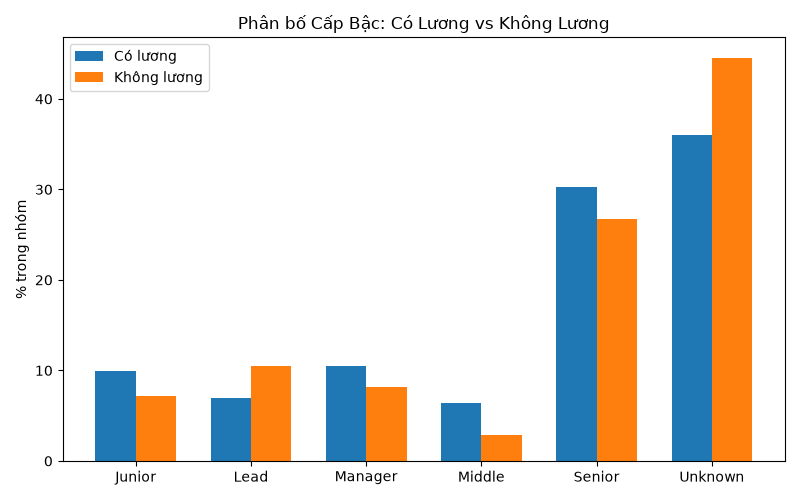
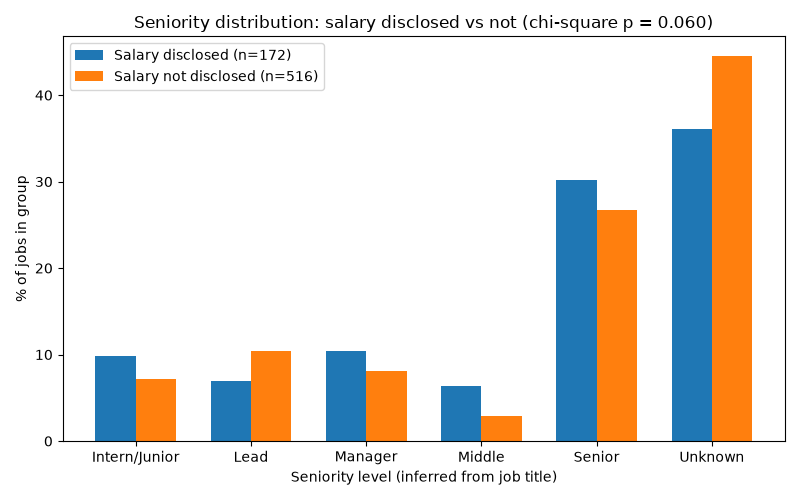
fix(models): refine clustering, classification, bias analysis and update reports

diff --git a/src/models/classification.py b/src/models/classification.py
@@ -123,6 +123,40 @@ def _md_table(df: pd.DataFrame, index_name: str) -> list[str]:
     return lines
 
 
+def plot_tree_ordered(model: DecisionTreeClassifier, X: pd.DataFrame, y: pd.Series, path: Path, title: str):
+    """Vẽ cây với `value` theo thứ tự Low, Mid, High (sklearn mặc định sắp lớp theo chữ cái: High, Low, Mid).
+
+    Fit lại một cây cùng tham số trên nhãn đánh số "1_Low" < "2_Mid" < "3_High". Gini và cách chọn nhánh
+    không phụ thuộc tên lớp nên cấu trúc cây giống hệt — có assert để chắc chắn.
+    """
+    order = {c: f"{i}_{c}" for i, c in enumerate(CLASSES, start=1)}
+    twin = DecisionTreeClassifier(**model.get_params()).fit(X, y.map(order))
+    assert (twin.tree_.feature == model.tree_.feature).all() and np.allclose(twin.tree_.threshold, model.tree_.threshold)
+
+    fig = plt.figure(figsize=(15, 10))
+    plot_tree(twin, feature_names=list(X.columns), class_names=CLASSES, filled=True, rounded=True, fontsize=10)
+    plt.title(title)
+    fig.text(0.5, 0.01,
+             "value = number of jobs [Low, Mid, High]. Left branch = condition true "
+             "(feature <= 0.5, i.e. the job does NOT have it); right branch = job has it.",
+             ha="center", fontsize=11)
+    plt.tight_layout(rect=(0, 0.04, 1, 1))
+    plt.savefig(path)
+    plt.close(fig)
+
+
+def intern_junior_breakdown(jobs_df: pd.DataFrame) -> pd.DataFrame:
+    """Thành phần nhóm Intern/Junior trong các tin có lương: số tin và lương đại diện theo level gốc."""
+    jobs = jobs_df[jobs_df["salary_status"] != "undisclosed"].copy()
+    jobs["salary_mid"] = calculate_salary_mid(jobs)
+    members = [lvl for lvl, grp in LEVEL_GROUPS.items() if grp == "Intern/Junior"]
+    sub = jobs[jobs["level"].isin(members)]
+    out = sub.groupby("level")["salary_mid"].agg(["count", "median", "min", "max"]).reindex(members).dropna(how="all")
+    out.columns = ["Số tin", "Trung vị (triệu)", "Thấp nhất", "Cao nhất"]
+    out["Số tin"] = out["Số tin"].astype(int)
+    return out.round(1)
+
+
 def run_classification():
     jobs_df, skills_df = load_and_verify_data()
     X, y, bins = build_dataset(jobs_df, skills_df)
@@ -164,13 +198,7 @@ def run_classification():
     importance = pd.Series(model.feature_importances_, index=X.columns)
     importance = importance[importance > 0].sort_values(ascending=False)
 
-    plt.figure(figsize=(15, 10))
-    plot_tree(model, feature_names=list(X.columns), class_names=list(model.classes_),
-              filled=True, rounded=True, fontsize=10)
-    plt.title(f"Decision Tree (max_depth={params[0]}, min_samples_leaf={params[1]})")
-    plt.tight_layout()
-    plt.savefig(FIG_DIR / "tree_viz.png")
-    plt.close()
+    plot_tree_ordered(model, X, y, FIG_DIR / "tree_viz.png", title=f"Decision Tree (max_depth={params[0]}, min_samples_leaf={params[1]})")
 
     # Lưu model + metadata (pickle chỉ dùng được với đúng version sklearn)
     MODEL_DIR.mkdir(parents=True, exist_ok=True)
@@ -190,6 +218,9 @@ def run_classification():
     lo, hi = bins[1], bins[2]
     cm_df = pd.DataFrame(cm, index=[f"Thật: {c}" for c in CLASSES], columns=[f"Dự đoán: {c}" for c in CLASSES])
     imp_df = importance.round(3).to_frame("Importance")
+    breakdown = intern_junior_breakdown(jobs_df)
+    n_ij = int(breakdown["Số tin"].sum())
+    n_intern = int(breakdown["Số tin"].get("Intern", 0))
     fold_counts = Counter(zip(folds["max_depth"], folds["min_samples_leaf"]))
     lines = [
         "# Báo cáo phân lớp lương (Decision Tree)",
@@ -230,10 +261,25 @@ def run_classification():
         "",
         *_md_table(imp_df, "Feature"),
         "",
+        "### Nhóm cấp bậc `Intern/Junior`",
+        "",
+        "Intern, Fresher và Junior được gộp thành 1 nhóm (`LEVEL_GROUPS`) vì Junior thật rất ít. "
+        "Trong các tin có lương, thành phần nhóm này:",
+        "",
+        *_md_table(breakdown, "Level gốc"),
+        "",
+        f"→ **{n_intern}/{n_ij} tin là thực tập sinh**; con số \"lương\" của họ là **phụ cấp thực tập**, không phải lương. "
+        "Vì vậy nhánh `lvl_Intern/Junior` của cây (toàn bộ dự đoán Low) phản ánh \"thực tập sinh có thu nhập thấp\" — "
+        "**không** được diễn giải thành \"Junior lương thấp\".",
+        "",
         "## Nhận xét",
         "",
         f"- Accuracy out-of-fold {acc:.1%}, cận dưới CI {ci_low:.1%} vẫn cao hơn baseline {baseline:.1%} → mô hình học được tín hiệu thật.",
-        "- Cấp bậc (suy từ tiêu đề) là feature quan trọng nhất; việc **không suy được** cấp bậc (`lvl_Unknown`) cũng mang thông tin.",
+        "- Cấp bậc (suy từ tiêu đề) là feature quan trọng nhất. Tách quan trọng nhất là `lvl_Intern/Junior`, "
+        "nhưng nhóm này chủ yếu là thực tập sinh (phụ cấp) nên kết luận gần như hiển nhiên; tín hiệu có giá trị hơn là "
+        "Senior/Lead/Manager nghiêng về High và việc **không suy được** cấp bậc (`lvl_Unknown`) nghiêng về Low.",
+        "- **Hạn chế:** phụ cấp thực tập nằm chung với lương trong dữ liệu (không tách được ở bước làm sạch); "
+        "phương án loại tin thực tập khỏi mô hình lương sẽ đổi N = 172 và tertile đã chốt ở Mốc 2 nên không áp dụng.",
         "- Recall từng lớp: " + ", ".join(f"{c} {cm[i, i]}/{cm[i].sum()} ({cm[i, i] / cm[i].sum():.0%})" for i, c in enumerate(CLASSES))
         + " — lớp giữa khó tách nhất, thường bị nhầm sang hai lớp bên cạnh.",
         f"- Mẫu nhỏ ({len(X)} tin) nên CI rộng; kết luận chỉ áp dụng cho tin có công bố lương (25% tổng số tin, phần lớn ghi USD).",

diff --git a/src/models/clustering.py b/src/models/clustering.py
@@ -195,6 +195,30 @@ def evaluate_clusters(cluster_df, jobs_df, stats):
         f.write(f"- **Purity:** {purity:.4f}\n")
         f.write(f"- **Baseline Purity:** {baseline_purity:.4f}\n")
         f.write(f"- **Weighted F-measure:** {overall_f:.4f}\n\n")
+
+        # Nhận xét & hạn chế — sinh từ số liệu để slide dùng trực tiếp
+        n_total = jobs_df['job_id'].nunique()
+        n_used = len(cluster_df)
+        sizes = cluster_df['cluster'].value_counts()
+        big_id, big_n = sizes.idxmax(), int(sizes.max())
+        small = [c for c in sorted(stats['top5']) if c != big_id]
+        f.write("## Nhận xét & hạn chế\n\n")
+        f.write(f"- **Cấu trúc cụm yếu:** silhouette = {stats['best_score']:.3f} (gần 0) — tổ hợp kỹ năng trên ITviec "
+                "**không tách thành các nhóm nghề rõ ràng**. Đây là kết quả, không phải lỗi; mọi phương án linkage/k đã thử "
+                "đều cho silhouette ~0,04–0,07 (`docs/DECISIONS.md`).\n")
+        f.write(f"- **Một cụm \"chung\" chiếm {big_n}/{n_used} tin ({big_n / n_used:.0%})** (cụm {big_id}: "
+                f"{stats['top5'][big_id]}) và trộn lẫn mọi nhóm nghề (xem crosstab).\n")
+        f.write(f"- **Các cụm nhỏ có đặc trưng rõ hơn:** "
+                + "; ".join(f"cụm {c} ({int(sizes[c])} tin): {stats['top5'][c].split(', ')[0]}, {stats['top5'][c].split(', ')[1]}" for c in small)
+                + ".\n")
+        f.write(f"- **Purity {purity:.3f} so với baseline {baseline_purity:.3f}** (baseline = gom tất cả vào 1 cụm, "
+                f"tức tỷ lệ nhóm nghề đông nhất): cụm kỹ năng khớp nhóm nghề tốt hơn baseline nhưng còn xa mức tách bạch; "
+                f"F-measure {overall_f:.3f}.\n")
+        f.write(f"- **Phạm vi:** chỉ {n_used}/{n_total} tin ({n_used / n_total:.0%}) được phân cụm; "
+                f"{n_total - n_used} tin ({(n_total - n_used) / n_total:.0%}) bị loại vì không bắt được kỹ năng nào "
+                f"hoặc còn < {MIN_SKILLS_PER_JOB} kỹ năng sau khi bỏ kỹ năng mềm/hiếm/quá phổ biến.\n")
+        f.write("- Nhóm nghề so sánh lấy từ 72 giá trị \"Job Expertise\" gộp thành 10 nhóm (`src/models/expertise_groups.json`, "
+                "ASSUMPTIONS A16 — chờ review).\n\n")
         
         f.write("## Crosstab (Cluster x Expertise Group)\n\n")
         headers = ["Cluster"] + list(crosstab.columns)

diff --git a/src/models/bias_analysis.py b/src/models/bias_analysis.py
@@ -128,8 +128,8 @@ def run_bias_analysis():
     fig, ax = plt.subplots(figsize=(10, 6))
     colors = ['green' if x > 0 else 'red' for x in top_plot['Chênh lệch (%)']]
     ax.barh(top_plot.index, top_plot['Chênh lệch (%)'] * 100, color=colors)
-    ax.set_xlabel('Chênh lệch % (Có lương - Không lương)')
-    ax.set_title(f'Top 10 kỹ năng chênh lệch nhiều nhất ({sig_count} kỹ năng có adj p < 0.05)')
+    ax.set_xlabel('Difference in share of jobs (pp): with salary − without salary')
+    ax.set_title(f'Top 10 skills by difference: salary disclosed vs not ({sig_count} with BH-adjusted p < 0.05)')
     ax.grid(axis='x', linestyle='--', alpha=0.7)
     plt.tight_layout()
     
@@ -191,10 +191,11 @@ def run_bias_analysis():
     fig, ax = plt.subplots(figsize=(8, 5))
     x = np.arange(len(level_pct))
     width = 0.35
-    ax.bar(x - width/2, level_pct['Có lương'], width, label='Có lương')
-    ax.bar(x + width/2, level_pct['Không lương'], width, label='Không lương')
-    ax.set_ylabel('% trong nhóm')
-    ax.set_title('Phân bố Cấp Bậc: Có Lương vs Không Lương')
+    ax.bar(x - width/2, level_pct['Có lương'], width, label=f'Salary disclosed (n={n_has})')
+    ax.bar(x + width/2, level_pct['Không lương'], width, label=f'Salary not disclosed (n={n_no})')
+    ax.set_ylabel('% of jobs in group')
+    ax.set_xlabel('Seniority level (inferred from job title)')
+    ax.set_title(f'Seniority distribution: salary disclosed vs not (chi-square p = {p_level:.3f})')
     ax.set_xticks(x)
     ax.set_xticklabels(level_pct.index)
     ax.legend()

diff --git a/src/models/features.py b/src/models/features.py
@@ -20,9 +20,11 @@ LOCATION_COLUMNS = {
 
 # Nhãn do src/parse/parser.py::infer_level sinh ra → nhóm dùng cho model
 LEVEL_GROUPS = {
-    "Intern": "Junior",
-    "Fresher": "Junior",
-    "Junior": "Junior",
+    # Intern/Fresher gộp với Junior vì quá ít tin (Junior thật chỉ 15/688). Lưu ý: trong 172 tin có lương,
+    # nhóm này chủ yếu là thực tập sinh (phụ cấp, không phải lương) — xem classification_report.md
+    "Intern": "Intern/Junior",
+    "Fresher": "Intern/Junior",
+    "Junior": "Intern/Junior",
     "Middle": "Middle",
     "Senior": "Senior",
     "Lead": "Lead",
@@ -110,7 +112,7 @@ def extract_location_flags(df: pd.DataFrame) -> pd.DataFrame:
 
 
 def clean_level_feature(df: pd.DataFrame) -> pd.Series:
-    """Gộp level: Intern/Fresher/Junior → Junior; Lead/Principal → Lead;
+    """Gộp level: Intern/Fresher/Junior → Intern/Junior; Lead/Principal → Lead;
     Manager/Head/Director → Manager; thiếu → Unknown.
 
     Raises:

diff --git a/tests/test_models.py b/tests/test_models.py
@@ -125,7 +125,7 @@ def test_clean_level_feature():
         "Lead", "Principal", "Manager", "Head", "Director", None,
     ]})
     assert clean_level_feature(df).tolist() == [
-        "Junior", "Junior", "Junior", "Middle", "Senior",
+        "Intern/Junior", "Intern/Junior", "Intern/Junior", "Middle", "Senior",
         "Lead", "Lead", "Manager", "Manager", "Manager", "Unknown",
     ]
 

diff --git a/docs/DECISIONS.md b/docs/DECISIONS.md
@@ -33,3 +33,4 @@
 | 03/10 tối | **Thuật toán Phân cụm (Task 1 & 2): Weighted Linkage + Lọc dữ liệu nghiêm ngặt** | (1) Bỏ kỹ năng mềm/công cụ quản lý (communication, teamwork, english, japanese, agile, jira, confluence), kỹ năng xuất hiện > 40% số tin, và kỹ năng hiếm (< 10 tin — ngưỡng 15 bỏ mất pandas, pytorch, tensorflow nên Data/AI không thành cụm). (2) Bỏ các tin còn < 2 kỹ năng sau khi lọc (129 tin; còn 548). (3) Dùng `weighted` linkage: `average` bị chaining thành 1 cụm chứa 95% số tin; `complete` không cắt được vì 42% cặp tin có khoảng cách Jaccard = 1; Ward không hợp lệ với Jaccard. (4) Chọn k ∈ 4–8 theo silhouette cao nhất trong các k có cụm nhỏ nhất ≥ 15 tin (không có k hợp lệ thì báo lỗi, không tự chọn) → **k = 4** (400/76/43/29), silhouette 0,048, purity 0,334. Silhouette của mọi phương án chỉ ~0,04–0,06: tổ hợp kỹ năng trên ITviec không tách thành nhóm nghề rõ ràng — ghi vào phần hạn chế (`reports/purity_report.md`). | Người 4 (Zang) |
 | 03/10 tối | **Decision Tree phân lớp lương (Task 3)** | 172 tin có lương, nhãn tertile (Low < 32,2 ≤ Mid < 50,0 ≤ High triệu VND/tháng; 60/55/57). Feature (Q3): 70 kỹ năng (≥ 5 lần trong 172 tin) + cấp bậc one-hot có `Unknown` + địa điểm multi-hot; left join `skill_matrix` (điền 0) để giữ đủ 172 tin. Đánh giá bằng nested CV (ngoài 5 fold, trong 3 fold chọn `max_depth`, `min_samples_leaf`); accuracy và confusion matrix tính trên dự đoán out-of-fold. Mô hình cuối: bộ tham số vòng trong chọn nhiều nhất, hoà thì chọn cây nông hơn → max_depth=3, min_samples_leaf=5. Kết quả: accuracy 52,9% (95% CI 45,3–60,5%) so với baseline 34,9%; cấp bậc là feature quan trọng nhất (`reports/classification_report.md`). Lưu `models/tree_model.pkl` + `tree_model_meta.json` (version sklearn), không dùng symlink (Windows). | Người 4 (Zang) |
 | 03/10 tối | **Bias analysis (Task 4): tin có lương (172) vs không lương (516)** | Kỹ năng: Fisher exact cho 100 kỹ năng (≥ 5 tin) + hiệu chỉnh Benjamini–Hochberg → **không kỹ năng nào khác biệt có ý nghĩa** (adj p < 0,05). Địa điểm (multi-hot, Fisher + BH cho 4 phép kiểm định) → **có thiên lệch**: HCM 47,7% vs 66,5% (adj p = 0,0001), HN 51,7% vs 38,6% (adj p = 0,006). Cấp bậc: chi-square p = 0,06 → không khác biệt có ý nghĩa. Tiền tệ chỉ mô tả nhóm có lương (151 USD / 21 VND, lấy từ `currency_original`) — tin không lương không có tiền tệ nên không so sánh được; "công ty nước ngoài" chỉ là giả thuyết. Kết luận: mô hình lương Task 3 đại diện cho tin có công bố lương, nghiêng về Hà Nội (`reports/bias_analysis.md`). | Người 4 (Zang) |
+| 04/10 | **Đổi tên nhóm cấp bậc `Junior` → `Intern/Junior`; giữ tin thực tập trong mô hình lương (phương án A)** | Trong 172 tin có lương, nhóm gộp Intern/Fresher/Junior có 17 tin, trong đó **14 là thực tập sinh** (trung vị ~4,1 triệu — phụ cấp, không phải lương), chỉ 2 Junior thật. Tên `Junior` khiến nút gốc của cây (importance 0,455) dễ bị đọc nhầm thành "Junior lương thấp". Phương án B (loại tin thực tập khỏi mô hình lương) đúng hơn về phương pháp nhưng đổi N = 172 và tertile 60/55/57 đã chốt ở Mốc 2 → không áp dụng; ghi vào phần hạn chế. Số liệu mô hình không đổi (accuracy 52,9%). Kèm theo: hình cây vẽ `value` theo thứ tự Low/Mid/High + chú thích cách đọc; `purity_report.md` thêm mục "Nhận xét & hạn chế". | Người 4 (Zang) |

diff --git a/reports/classification_report.md b/reports/classification_report.md
@@ -45,14 +45,27 @@ Vòng ngoài 5 fold đánh giá, vòng trong 3 fold chọn `max_depth ∈ {3,4,5
 
 | Feature | Importance |
 |---|---|
-| lvl_Junior | 0.455 |
+| lvl_Intern/Junior | 0.455 |
 | lvl_Middle | 0.224 |
 | lvl_Unknown | 0.202 |
 | cpp | 0.119 |
 
+### Nhóm cấp bậc `Intern/Junior`
+
+Intern, Fresher và Junior được gộp thành 1 nhóm (`LEVEL_GROUPS`) vì Junior thật rất ít. Trong các tin có lương, thành phần nhóm này:
+
+| Level gốc | Số tin | Trung vị (triệu) | Thấp nhất | Cao nhất |
+|---|---|---|---|---|
+| Intern | 14 | 4.1 | 2.3 | 9.0 |
+| Fresher | 1 | 3.6 | 3.6 | 3.6 |
+| Junior | 2 | 15.7 | 12.0 | 19.3 |
+
+→ **14/17 tin là thực tập sinh**; con số "lương" của họ là **phụ cấp thực tập**, không phải lương. Vì vậy nhánh `lvl_Intern/Junior` của cây (toàn bộ dự đoán Low) phản ánh "thực tập sinh có thu nhập thấp" — **không** được diễn giải thành "Junior lương thấp".
+
 ## Nhận xét
 
 - Accuracy out-of-fold 52.9%, cận dưới CI 45.3% vẫn cao hơn baseline 34.9% → mô hình học được tín hiệu thật.
-- Cấp bậc (suy từ tiêu đề) là feature quan trọng nhất; việc **không suy được** cấp bậc (`lvl_Unknown`) cũng mang thông tin.
+- Cấp bậc (suy từ tiêu đề) là feature quan trọng nhất. Tách quan trọng nhất là `lvl_Intern/Junior`, nhưng nhóm này chủ yếu là thực tập sinh (phụ cấp) nên kết luận gần như hiển nhiên; tín hiệu có giá trị hơn là Senior/Lead/Manager nghiêng về High và việc **không suy được** cấp bậc (`lvl_Unknown`) nghiêng về Low.
+- **Hạn chế:** phụ cấp thực tập nằm chung với lương trong dữ liệu (không tách được ở bước làm sạch); phương án loại tin thực tập khỏi mô hình lương sẽ đổi N = 172 và tertile đã chốt ở Mốc 2 nên không áp dụng.
 - Recall từng lớp: Low 43/60 (72%), Mid 13/55 (24%), High 35/57 (61%) — lớp giữa khó tách nhất, thường bị nhầm sang hai lớp bên cạnh.
 - Mẫu nhỏ (172 tin) nên CI rộng; kết luận chỉ áp dụng cho tin có công bố lương (25% tổng số tin, phần lớn ghi USD).

diff --git a/reports/purity_report.md b/reports/purity_report.md
@@ -26,6 +26,15 @@
 - **Baseline Purity:** 0.2080
 - **Weighted F-measure:** 0.3229
 
+## Nhận xét & hạn chế
+
+- **Cấu trúc cụm yếu:** silhouette = 0.048 (gần 0) — tổ hợp kỹ năng trên ITviec **không tách thành các nhóm nghề rõ ràng**. Đây là kết quả, không phải lỗi; mọi phương án linkage/k đã thử đều cho silhouette ~0,04–0,07 (`docs/DECISIONS.md`).
+- **Một cụm "chung" chiếm 400/548 tin (73%)** (cụm 4: api (51%), cicd (46%), git (45%), java (34%), aws (34%)) và trộn lẫn mọi nhóm nghề (xem crosstab).
+- **Các cụm nhỏ có đặc trưng rõ hơn:** cụm 1 (43 tin): sql (88%), python (26%); cụm 2 (29 tin): aws (52%), data_governance (52%); cụm 3 (76 tin): llm (61%), python (57%).
+- **Purity 0.334 so với baseline 0.208** (baseline = gom tất cả vào 1 cụm, tức tỷ lệ nhóm nghề đông nhất): cụm kỹ năng khớp nhóm nghề tốt hơn baseline nhưng còn xa mức tách bạch; F-measure 0.323.
+- **Phạm vi:** chỉ 548/688 tin (80%) được phân cụm; 140 tin (20%) bị loại vì không bắt được kỹ năng nào hoặc còn < 2 kỹ năng sau khi bỏ kỹ năng mềm/hiếm/quá phổ biến.
+- Nhóm nghề so sánh lấy từ 72 giá trị "Job Expertise" gộp thành 10 nhóm (`src/models/expertise_groups.json`, ASSUMPTIONS A16 — chờ review).
+
 ## Crosstab (Cluster x Expertise Group)
 
 | Cluster | Architect | BA/PM/Manager | Backend | Data/AI | DevOps/Cloud/System | Frontend/Fullstack | Khác | Mobile | QA/QC | Security |

diff --git a/reports/bias_analysis.md b/reports/bias_analysis.md
@@ -43,7 +43,7 @@ Kiểm định Chi-Square test trên toàn bộ bảng chéo: p-value = 6.0407e-
 
 | Cấp bậc | Có lương | Có lương (%) | Không lương | Không lương (%) | Chênh lệch (%) |
 |---|---|---|---|---|---|
-| Junior | 17 | 9.9% | 37 | 7.2% | +2.7% |
+| Intern/Junior | 17 | 9.9% | 37 | 7.2% | +2.7% |
 | Lead | 12 | 7.0% | 54 | 10.5% | -3.5% |
 | Manager | 18 | 10.5% | 42 | 8.1% | +2.3% |
 | Middle | 11 | 6.4% | 15 | 2.9% | +3.5% |
